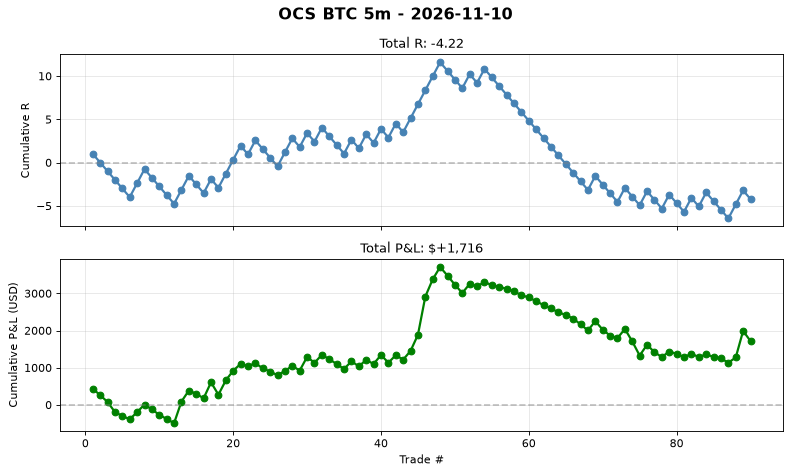
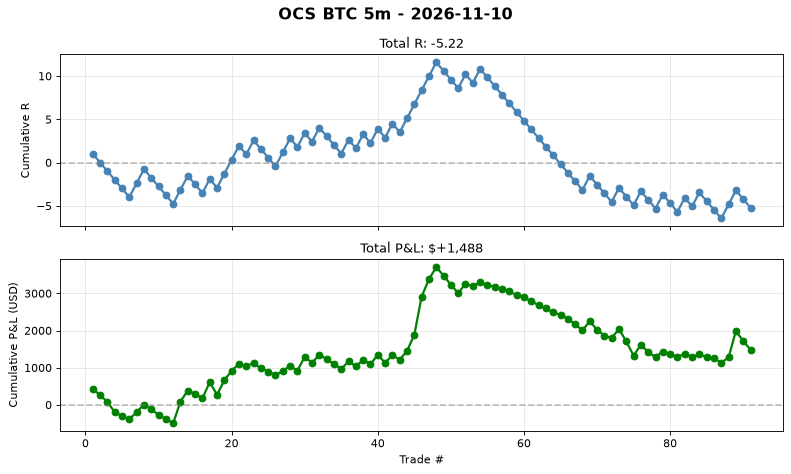
auto(ocs-btc): signal log 2026-11-10T01:02 trades=91

diff --git a/automation/reports/ocs_btc_5m/daily/2026-11-10.md b/automation/reports/ocs_btc_5m/daily/2026-11-10.md
@@ -2,4 +2,4 @@
 
 **No trades today.**
 
-Cumulative stats: 90 trades | WR 36.7% | avg R -0.047
+Cumulative stats: 91 trades | WR 36.3% | avg R -0.057
